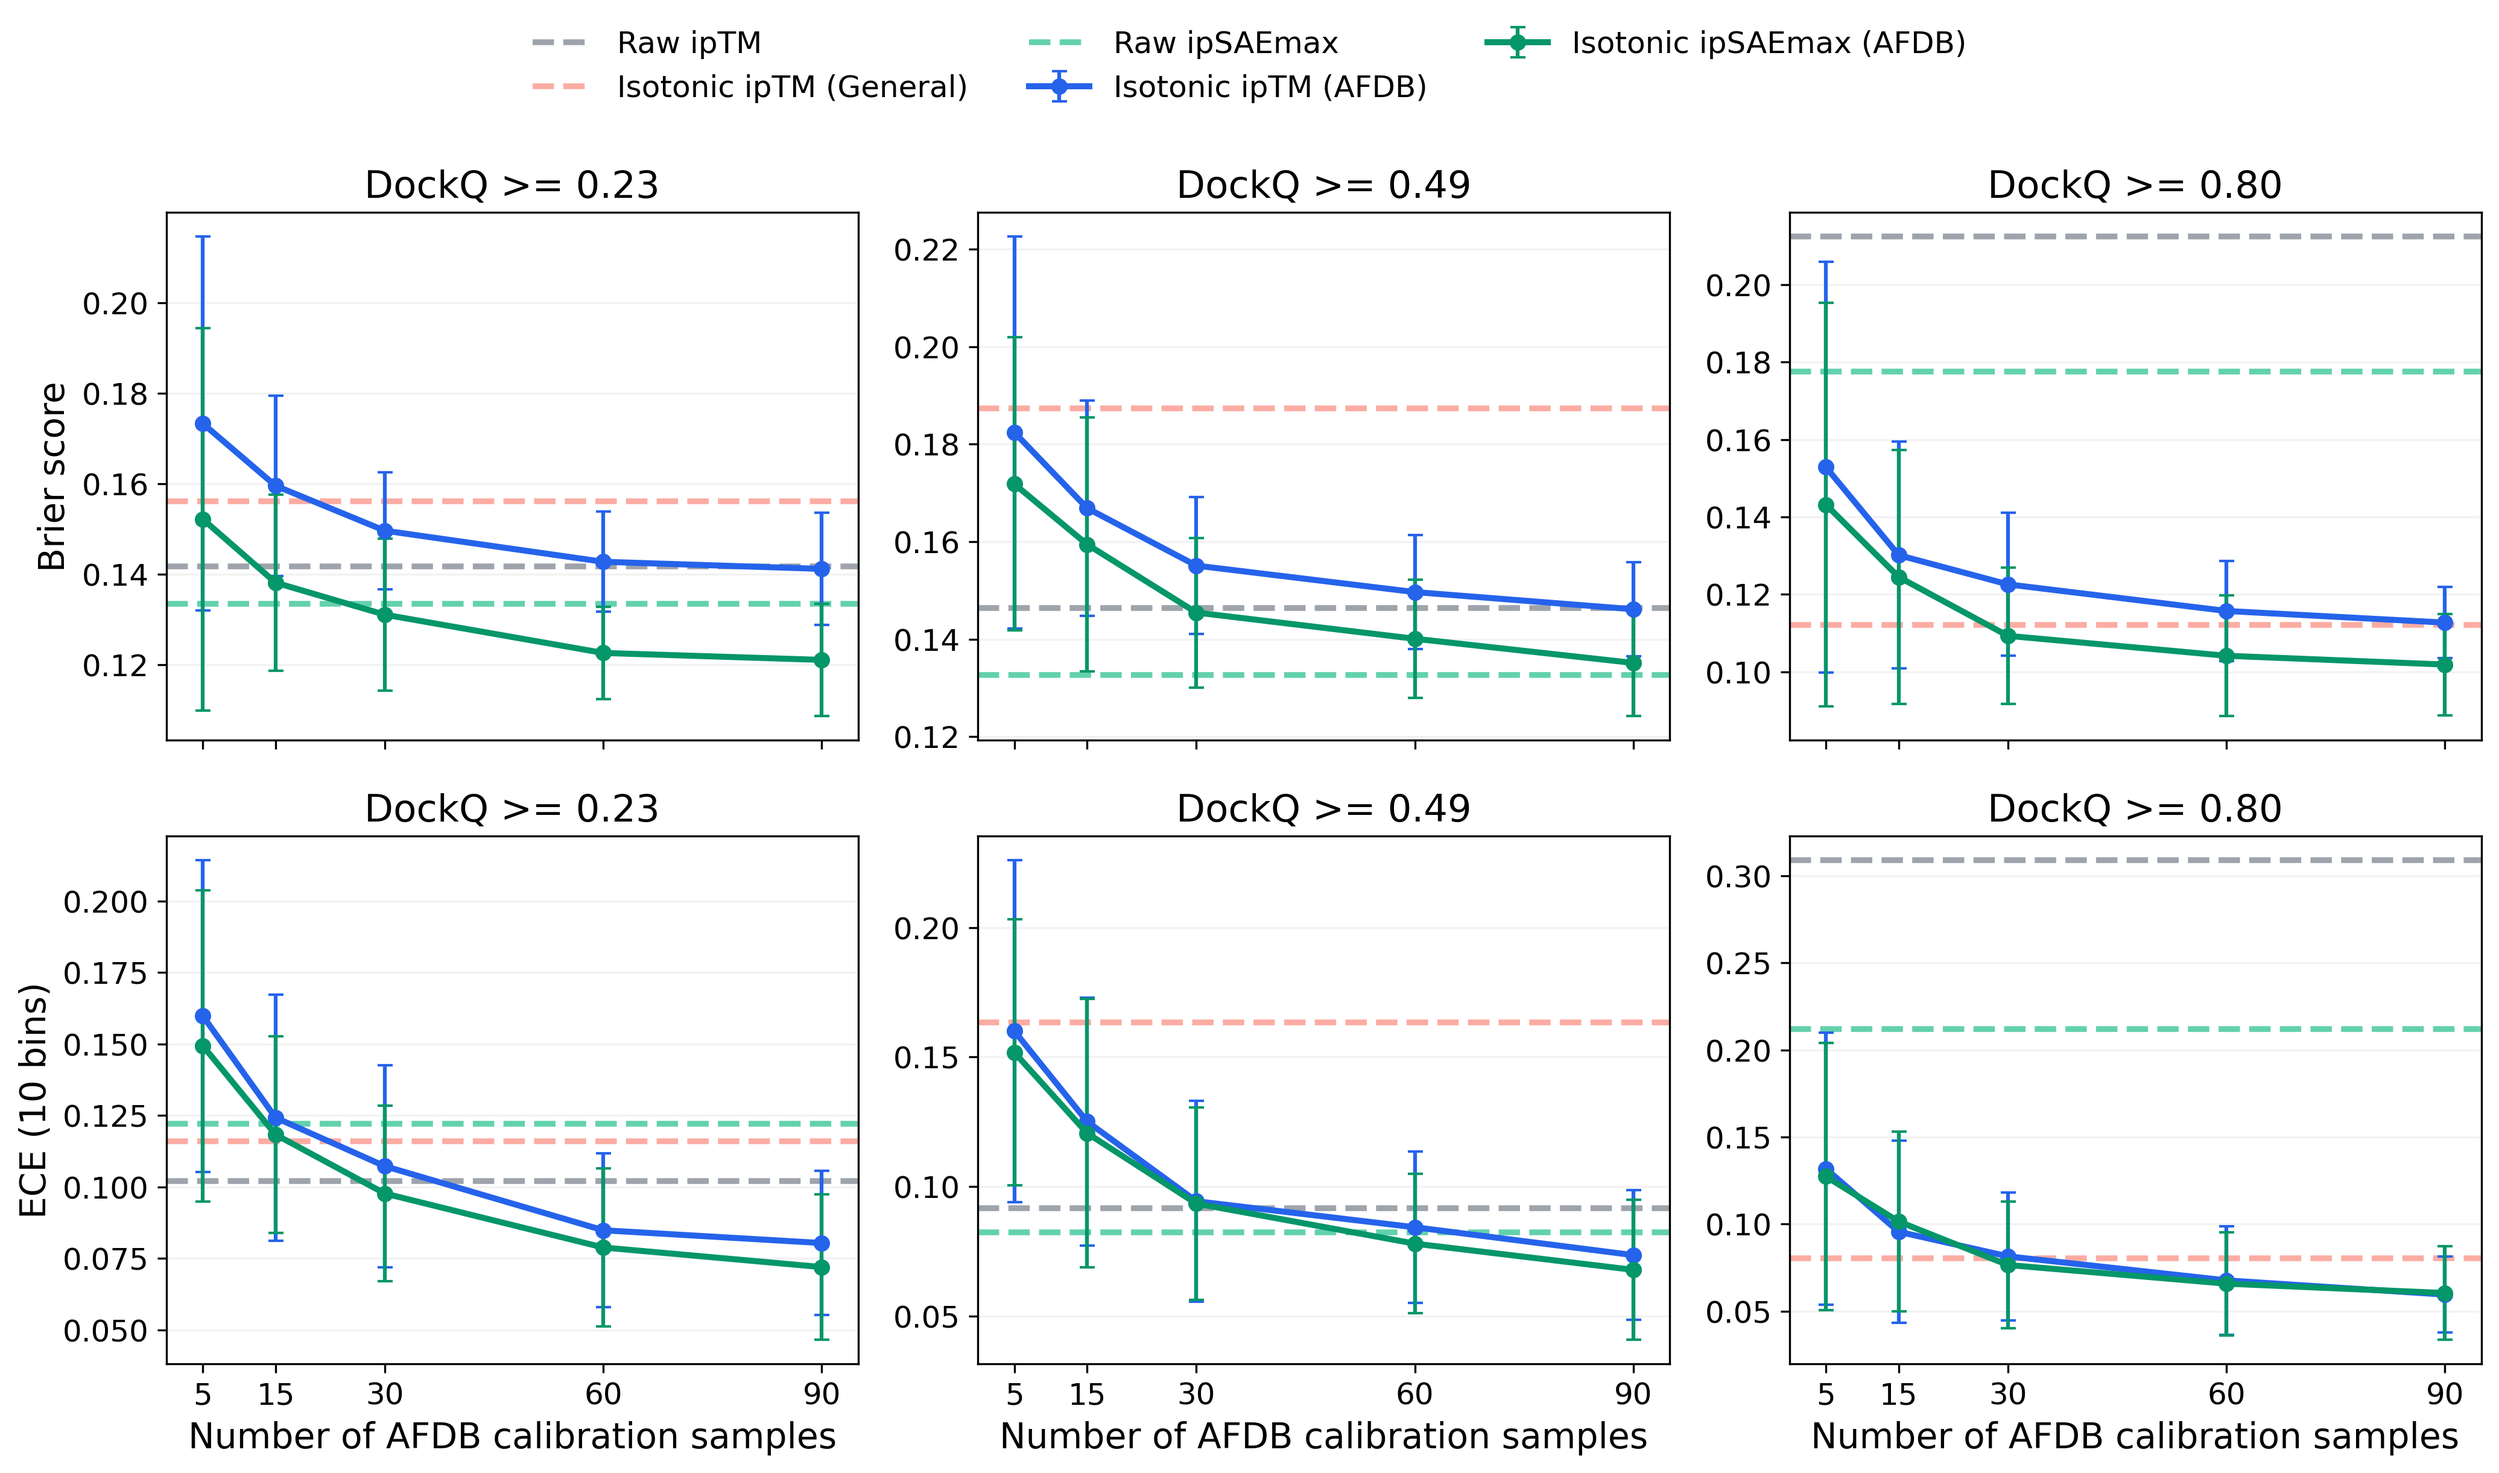
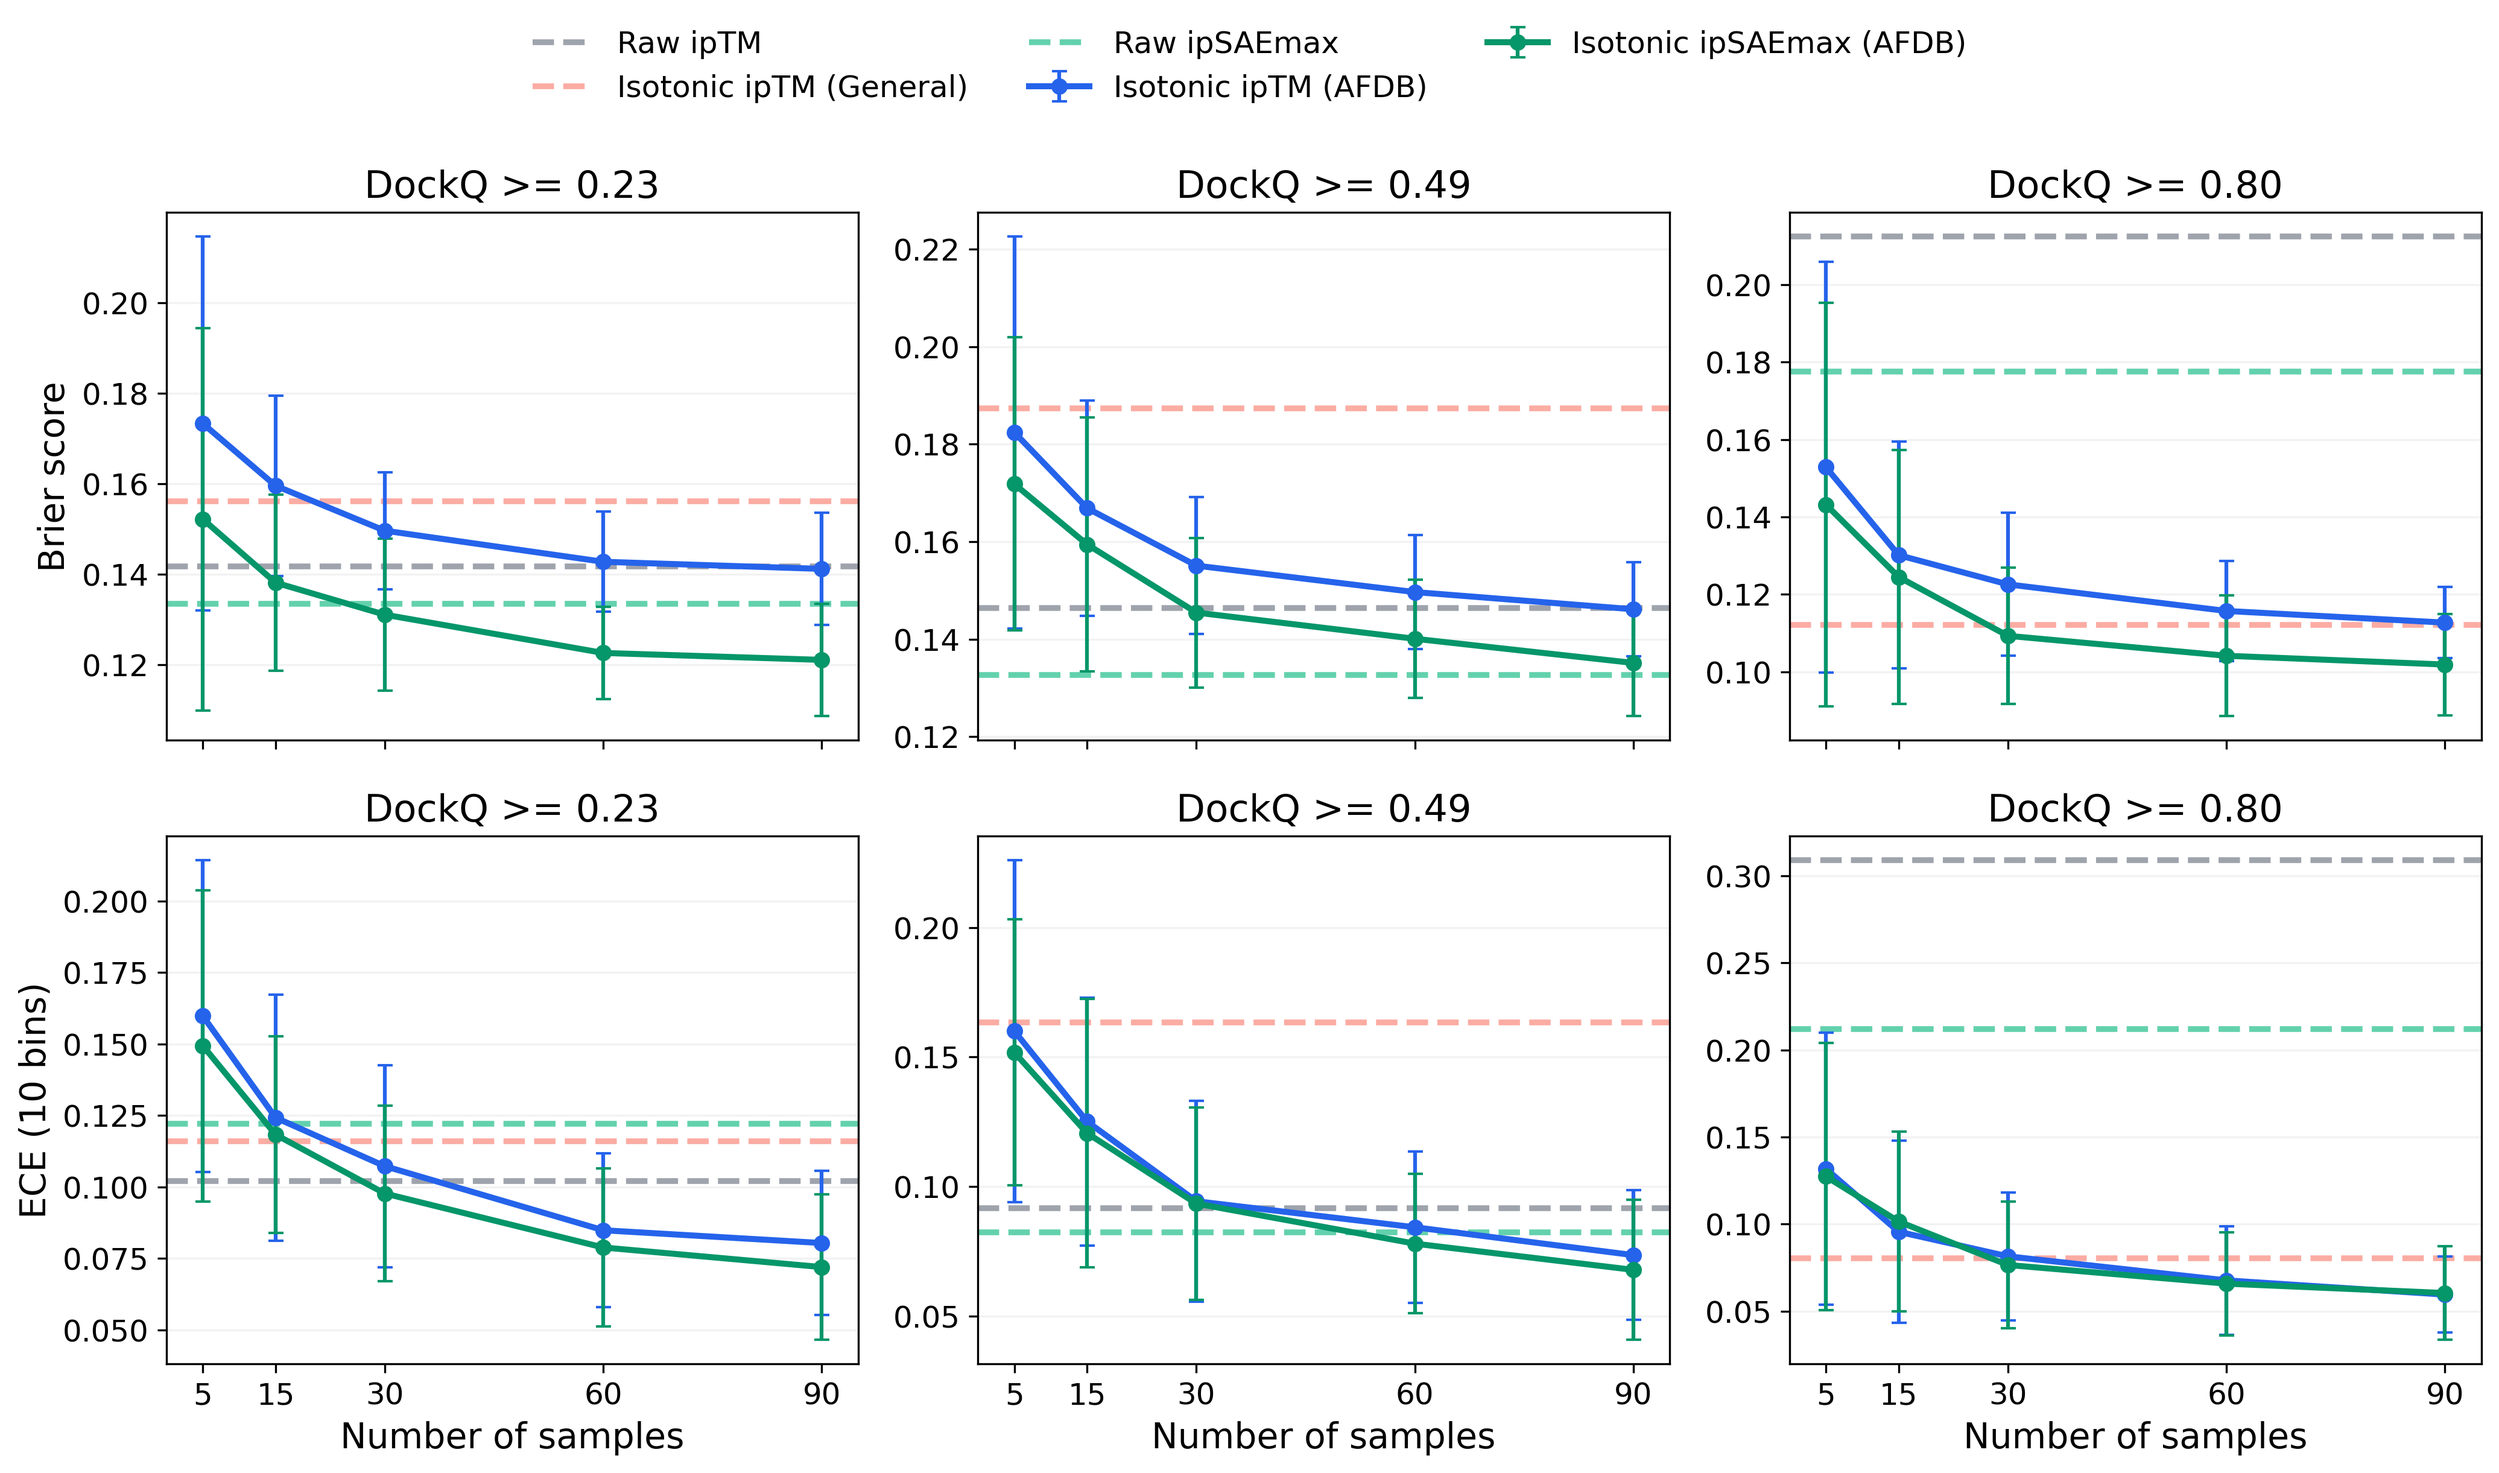
Simplify AFDB recalibration sample axis label

Changed region(s): [[0.7161, 0.9648, 0.9964, 0.9959], [0.0623, 0.9648, 0.3425, 0.9959], [0.4048, 0.9648, 0.6539, 0.9959]]

diff --git a/scripts/render_workshop_afdb_recalibration_count_axis.py b/scripts/render_workshop_afdb_recalibration_count_axis.py
@@ -56,7 +56,7 @@ def main() -> None:
             if col == 0:
                 ax.set_ylabel("Brier score" if metric == "brier" else "ECE (10 bins)")
             if row == 1:
-                ax.set_xlabel("Number of AFDB calibration samples")
+                ax.set_xlabel("Number of samples")
     handles, labels = axes[0, 0].get_legend_handles_labels()
     fig.legend(handles, labels, loc="upper center", ncol=3, frameon=False, bbox_to_anchor=(0.5, 1.03))
     fig.tight_layout(rect=(0, 0, 1, 0.94))
